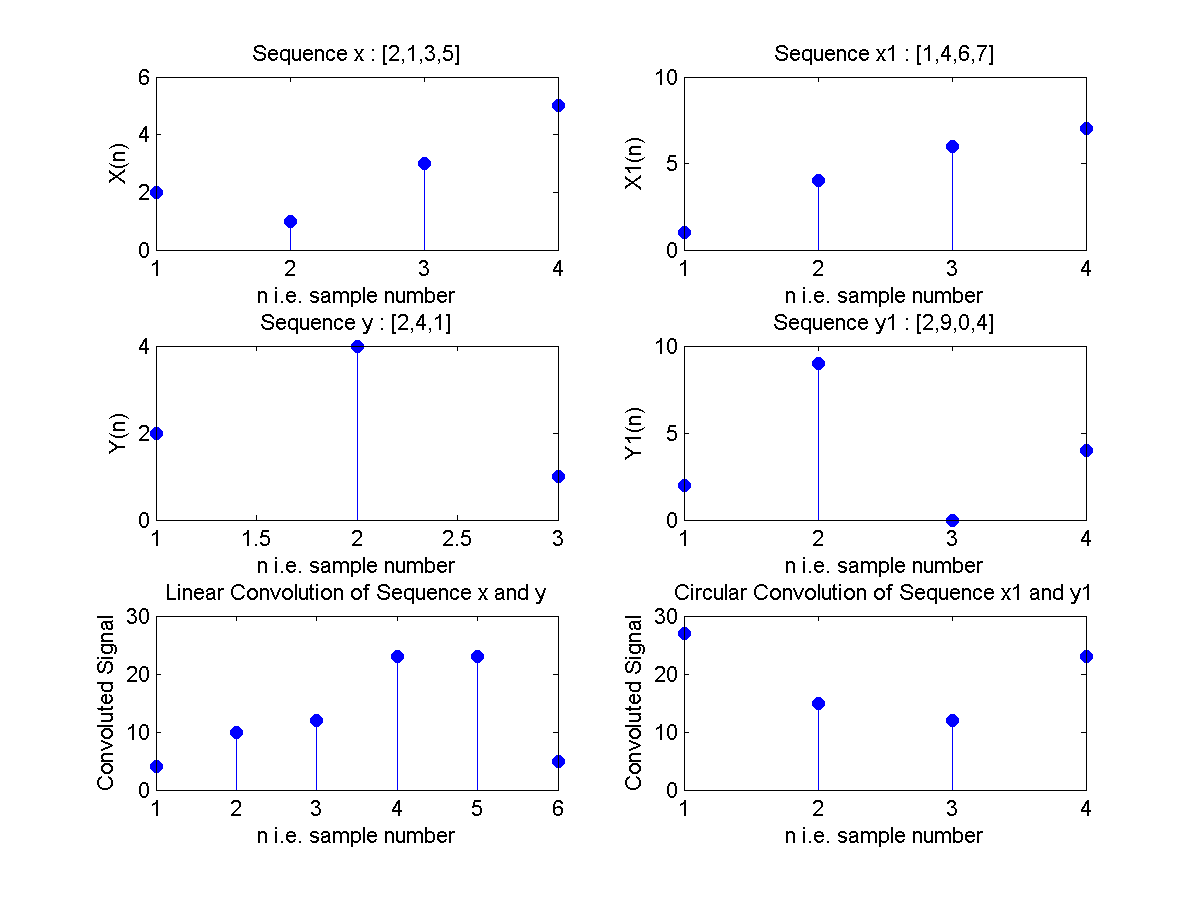
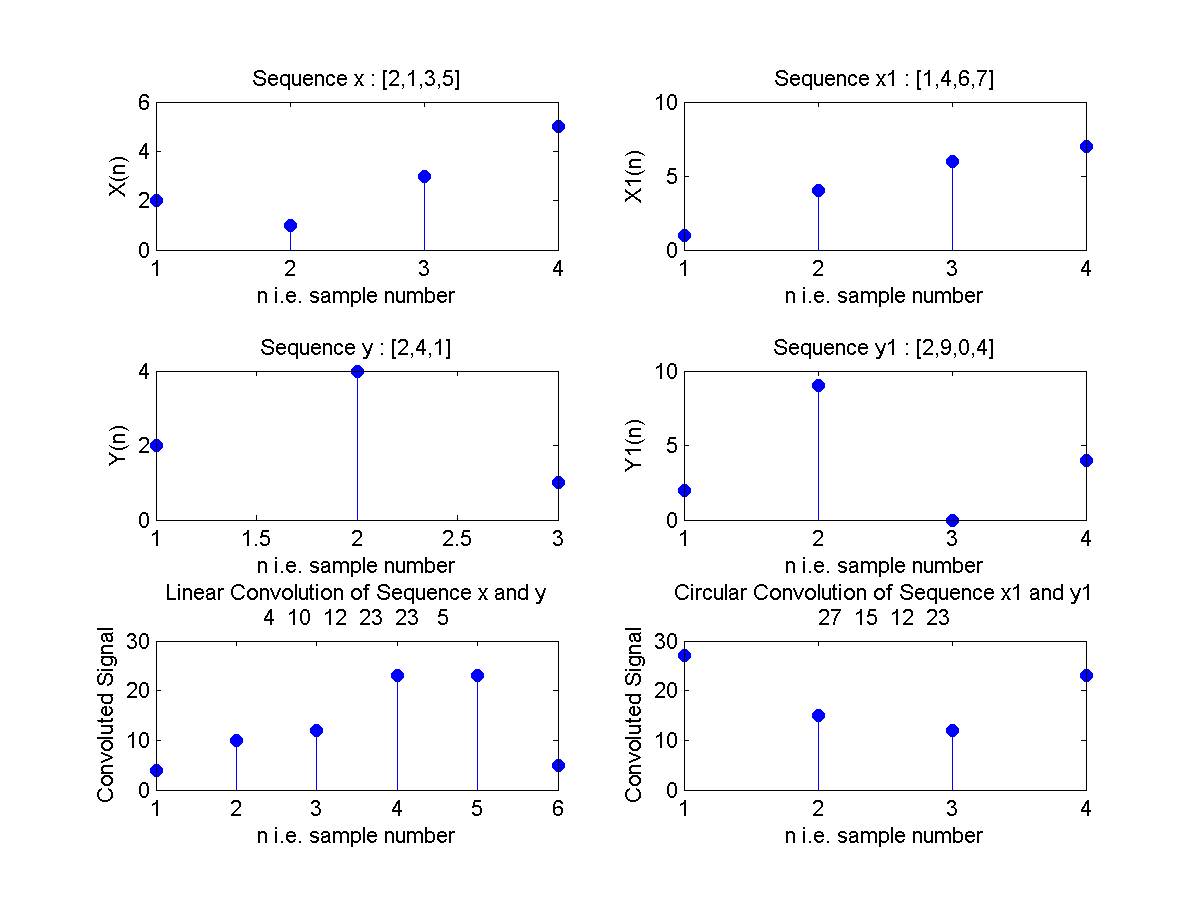
modified convolutions to show the sequence using title({'blah','bla-blah'})

diff --git a/convolution.m b/convolution.m
@@ -20,7 +20,7 @@ ylabel('Y(n)');
 subplot(3,2,5);
 stem(lc,'filled');
 xlabel('n i.e. sample number');
-title('Linear Convolution of Sequence x and y');
+title({'Linear Convolution of Sequence x and y',num2str(lc)});
 ylabel('Convoluted Signal');
 
 %Circular Convolution
@@ -43,7 +43,7 @@ ylabel('Y1(n)');
 subplot(3,2,6);
 stem(cc,'filled');
 xlabel('n i.e. sample number');
-title('Circular Convolution of Sequence x1 and y1');
+title({'Circular Convolution of Sequence x1 and y1';num2str(cc)});
 ylabel('Convoluted Signal');
 
 print('convolutions','-dpng');
